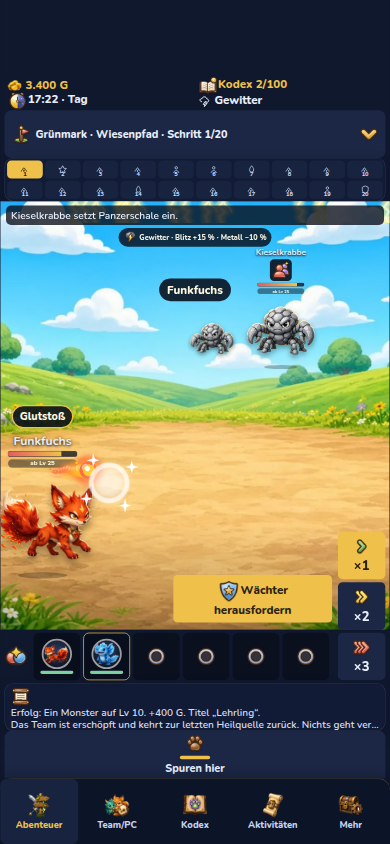
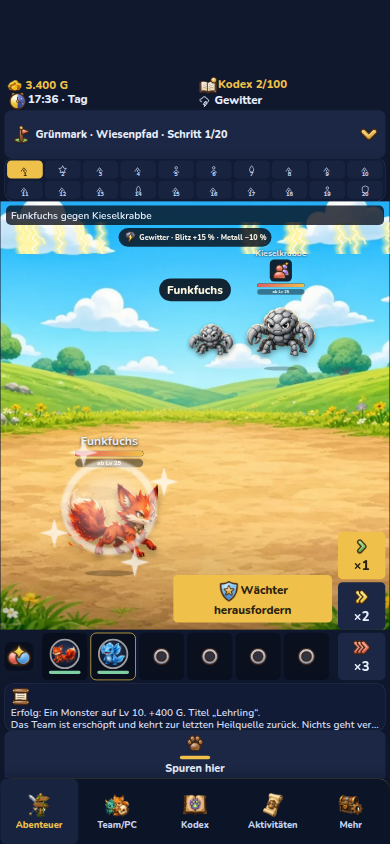
Kampf K8: Aura nach dem Einlauf, Sprite im Feld, Kombi-Tooltip.
Der Blitz startet, wenn das eigene Monster steht, und der erste Angriffsname wartet, bis er vorbei ist. Ausfall und Einlauf bleiben im Feld. Das Kombi-Icon ist groß genug für 24 px auf 360 px Breite und zeigt den Namen bei ×1.

diff --git a/src/adventure/app.ts b/src/adventure/app.ts
@@ -27,7 +27,7 @@ import { activeCombos, AURA_FRAMES, AURA_MS } from './combo'
 import { mechIcon, type MechId } from './mech'
 import { AILMENTS, ailmentIcon, type AilmentId } from './ailment'
 import { sfx } from '../ui'
-import { actorTransform, hitShake, koPose, lungeOffset, numberStyle, parallaxShift } from '../battle/stage'
+import { actorTransform, clampShift, hitShake, koPose, lungeOffset, numberStyle, parallaxShift } from '../battle/stage'
 import { bossUltHitstop, bossUltShake, cameraShake, hitGrade, hitstopMs, numberHoldMs } from '../battle/hitReadout'
 import { beginBattleMood, clearBattleFx, holdBattleFx, mountBattleFx, onBattleFxReady, playBattleFx, preloadBattleStrips, setFxRunning, showBattleConfetti, showBattleDissolve, showHitNumber } from '../battle/phaserFx'
 import { effectTiming, battleStripTypes } from '../battle/strips'
@@ -930,9 +930,14 @@ function play(outcome: EncounterOutcome, speed: Speed, done: () => void): void {
     clearBattleFx()
     finish()
   }
-  backstop = window.setTimeout(finishOnce, dur + 40)
+  const enterMs = 300 / Math.max(1, speed)
+  const auraMs = teamHasCombo() ? AURA_MS / Math.max(1, speed) : 0
+  let auraArmed = false
+  // Hold the fight script until the monster has stepped in and the aura has finished.
+  let scriptAt = auraMs > 0 ? Number.POSITIVE_INFINITY : 0
+  backstop = window.setTimeout(finishOnce, dur + enterMs + auraMs + 400)
   const k = tempoScale(speed)
-  const started = performance.now()
+  let started = performance.now()
   let counterAt = -1
   let frozen = -1
   const seal = document.getElementById('seal') as HTMLImageElement | null
@@ -979,8 +984,9 @@ function play(outcome: EncounterOutcome, speed: Speed, done: () => void): void {
     }
     drawnAt = now
     try {
-      let elapsed = now - started
-      if (frozen >= 0) elapsed = frozen
+      let motion = now - started
+      if (frozen >= 0) motion = frozen
+      const elapsed = frozen >= 0 || !(scriptAt > 0) ? motion : Math.max(0, motion - scriptAt)
       const shot = shotAt(outcome.traces, Math.min(elapsed, battleEnd), battleEnd)
       if (holdCounter && shot?.counter) {
         if (counterAt < 0) counterAt = elapsed
@@ -1047,7 +1053,7 @@ function play(outcome: EncounterOutcome, speed: Speed, done: () => void): void {
       const foeKo = shot?.foeHp === 0 ? Math.min(1, Math.max(0, age) / 200) : 0
       if (shot && shot.allySpecies !== allySeen) {
         allySeen = shot.allySpecies
-        enterAt = elapsed
+        enterAt = motion
         const banner = document.getElementById('name-banner')
         if (banner) {
           banner.hidden = false
@@ -1055,10 +1061,18 @@ function play(outcome: EncounterOutcome, speed: Speed, done: () => void): void {
           window.setTimeout(() => { banner.hidden = true }, 800 / Math.max(1, speed))
         }
       }
-      const enter = enterAt < 0 ? 0 : Math.max(0, 1 - (elapsed - enterAt) / (300 / Math.max(1, speed)))
+      if (!auraArmed && auraMs > 0 && frozen < 0 && enterAt >= 0 && motion >= enterAt + enterMs) {
+        auraArmed = true
+        scriptAt = motion + auraMs + 40
+        showAura(speed)
+      }
+      const enter = enterAt < 0 ? 0 : Math.max(0, 1 - (motion - enterAt) / enterMs)
+      const field = document.getElementById('battle-world')
       if (allyActor) {
-        allyActor.style.transform = `${actorTransform('ally', allyMove, allyHit, allyKo, elapsed, reach)} translate(${(-240 * enter).toFixed(1)}px, 0px)`
+        const slide = clampActorSlide(allyActor, field, -240 * enter)
+        allyActor.style.transform = `${actorTransform('ally', allyMove, allyHit, allyKo, elapsed, reach)} translate(${slide.toFixed(1)}px, 0px)`
         allyActor.style.opacity = String(koPose(allyKo).opacity)
+        clampActorPose(allyActor, field)
       }
       paintWeatherArrow('ally-arrow', shot ? species(shot.allySpecies).type : null, weather)
       paintWeatherArrow('foe-arrow', shot ? species(shot.foeSpecies).type : null, weather)
@@ -1082,6 +1096,7 @@ function play(outcome: EncounterOutcome, speed: Speed, done: () => void): void {
       if (foeActor) {
         foeActor.style.transform = actorTransform('foe', foeMove, foeHit, foeKo, elapsed + 180, reach)
         foeActor.style.opacity = String(koPose(foeKo).opacity)
+        clampActorPose(foeActor, field)
       }
       const world = document.getElementById('battle-world')
       const shakeAge = elapsed - shakeStart
@@ -1120,7 +1135,7 @@ function play(outcome: EncounterOutcome, speed: Speed, done: () => void): void {
     }
   }
   const run = () => {
-    showAura(speed)
+    started = performance.now()
     raf = requestAnimationFrame(frame)
   }
   if (outcome.boss?.species && !holdCounter) showBossIntro(outcome.boss, run)
@@ -1159,13 +1174,20 @@ function paintMark(id: string, mark: string | null, stacks: number): void {
 
 let auraTimer = 0
 
-function showAura(speed: number): void {
-  if (!save) return
-  const types = save.team.flatMap((uid) => {
+function teamTypes(): TypeId[] {
+  if (!save) return []
+  return save.team.flatMap((uid) => {
     const mon = save!.mons[uid]
     return mon ? [species(mon.species).type] : []
   })
-  if (!activeCombos(types).length) return
+}
+
+function teamHasCombo(): boolean {
+  return activeCombos(teamTypes()).length > 0
+}
+
+function showAura(speed: number): void {
+  if (!teamHasCombo()) return
   const node = document.getElementById('aura-flash')
   if (!(node instanceof HTMLElement)) return
   window.clearInterval(auraTimer)
@@ -1181,8 +1203,32 @@ function showAura(speed: number): void {
       node.hidden = true
       return
     }
-    node.style.backgroundPosition = `${-frame * 256}px 0`
+    node.style.backgroundPosition = `${-frame * 420}px 0`
   }, step)
+}
+
+function clampActorSlide(actor: HTMLElement, field: HTMLElement | null, x: number): number {
+  const img = actor.querySelector('img.sprite')
+  const width = field?.clientWidth || 1080
+  const sprite = img instanceof HTMLImageElement ? Math.max(img.offsetWidth, 220) * 1.2 : 280
+  const anchor = (parseFloat(actor.style.left) / 100) * width
+  return clampShift(anchor, x, width, sprite)
+}
+
+function clampActorPose(actor: HTMLElement, field: HTMLElement | null): void {
+  if (!(field instanceof HTMLElement)) return
+  const img = actor.querySelector('img.sprite')
+  if (!(img instanceof HTMLElement)) return
+  const box = img.getBoundingClientRect()
+  if (box.width < 2) return
+  const frame = field.getBoundingClientRect()
+  const pad = 8
+  let dx = 0
+  if (box.left < frame.left + pad) dx = frame.left + pad - box.left
+  else if (box.right > frame.right - pad) dx = frame.right - pad - box.right
+  if (dx === 0) return
+  const scale = fitScale(window.innerWidth, window.innerHeight) || 1
+  actor.style.transform += ` translateX(${(dx / scale).toFixed(1)}px)`
 }
 
 function paintMechs(ids: MechId[]): void {
@@ -1458,6 +1504,14 @@ function onClick(event: Event): void {
   const node = target.closest('[data-act]')
   if (!node) return
   const act = node.getAttribute('data-act')
+  if (act === 'combo') {
+    if (save && save.settings.speed !== 1) return
+    const tip = document.getElementById('combo-tip')
+    if (!(tip instanceof HTMLElement)) return
+    tip.hidden = !tip.hidden
+    tip.textContent = node.getAttribute('data-tip') ?? ''
+    return
+  }
   if (act === 'status') {
     if (save && save.settings.speed !== 1) return
     const who = node.getAttribute('data-who') === 'foe' ? 'foe' : 'ally'

diff --git a/src/adventure/view.ts b/src/adventure/view.ts
@@ -285,13 +285,13 @@ function battle(save: SaveV2, now: number, fighting = false): string {
         <b id="ally-name">${mon ? esc(species(mon.species).name) : ''}<img class="wx-arrow" id="ally-arrow" alt="" ${mon && weatherArrow(weatherForecast(now)[0].weather, species(mon.species).type) ? `src="${art(weatherArrow(weatherForecast(now)[0].weather, species(mon.species).type) === 'up' ? 'battle/stat_up.png' : 'battle/stat_down.png')}"` : 'hidden'}/></b>
         <div class="hp"><span id="ally-hp" style="width:${(hp.hp / hp.max) * 100}%"></span></div>
         <div class="ult ${mon && mon.lvl >= 25 ? '' : 'is-locked'}" id="ally-ult" data-n="0" title="${mon && mon.lvl >= 25 ? 'Ult' : 'ab Level 25'}"></div>
+        <div id="aura-flash" class="aura-flash" hidden></div>
         ${mon ? `<img class="sprite ${mon.shiny ? 'is-shiny' : ''}" id="ally-sprite" src="${monsterArt(mon.species, true)}" alt=""/>` : ''}
         <span class="ground-shadow"></span>
       </div>
       <div id="floats"></div>
       <div class="move-banner" id="move-banner" hidden></div>
       <div class="name-banner" id="name-banner" hidden></div>
-      <div id="aura-flash" class="aura-flash" hidden></div>
       <div class="crit-flash" id="crit-flash"></div>
       <div class="boss-intro" id="boss-intro" hidden></div>
       <button type="button" class="victory" id="victory" hidden></button>
@@ -325,8 +325,9 @@ function teamDock(save: SaveV2): string {
     const mon = save.mons[uid]
     return mon ? [species(mon.species).type] : []
   }))
+  const comboName = combos.map((row) => row.name).join(', ')
   const combo = combos.length
-    ? `<img class="combo-mark" src="${art('battle/combo_synergy_64.png')}" alt="${esc(combos.map((row) => row.name).join(', '))}" title="${esc(combos.map((row) => row.name).join(', '))}"/>`
+    ? `<span class="combo-slot"><button type="button" class="combo-mark" data-act="combo" data-tip="${esc(comboName)}" aria-label="${esc(comboName)}"><img src="${art('battle/combo_synergy_64.png')}" alt=""/></button><p class="combo-tip" id="combo-tip" hidden></p></span>`
     : ''
   const speeds = ([1, 2, 3] as const).map((speed) => {
     const iconId = speed === 1 ? 'speed1' : speed === 2 ? 'speed2' : 'speed3'

diff --git a/src/adventure/adventure.css b/src/adventure/adventure.css
@@ -290,13 +290,25 @@ textarea { width: 100%; box-sizing: border-box; background: #121a30; color: inhe
   box-sizing: border-box;
   z-index: 4;
 }
-.dock.has-combo { grid-template-columns: 72px minmax(0, 1fr) 148px; }
-.combo-mark { width: 64px; height: 64px; align-self: center; object-fit: contain; }
-.aura-flash {
-  position: absolute; z-index: 6; left: 28%; top: 70%; width: 256px; height: 256px;
-  transform: translate(-50%, -70%); pointer-events: none;
-  background-repeat: no-repeat; background-size: 1280px 256px;
+.dock.has-combo { grid-template-columns: 96px minmax(0, 1fr) 148px; }
+.combo-slot { position: relative; align-self: center; }
+.combo-mark {
+  width: 80px; height: 80px; padding: 0; border: 0; border-radius: 18px;
+  background: rgba(8, 12, 24, 0.72); display: grid; place-items: center; cursor: pointer;
 }
+.combo-mark img { width: 72px; height: 72px; object-fit: contain; }
+.combo-tip {
+  position: absolute; z-index: 9; left: 0; bottom: calc(100% + 12px);
+  width: max-content; max-width: 420px; margin: 0; padding: 10px 14px; border-radius: 16px;
+  background: rgba(8, 12, 24, 0.94); color: #fff8e1; font-weight: 800; font-size: 36px; line-height: 1.2;
+}
+.combo-tip[hidden] { display: none; }
+.combatant .aura-flash {
+  position: absolute; z-index: 3; left: 50%; bottom: -36px; width: 420px; height: 420px;
+  margin-left: -210px; pointer-events: none;
+  background-repeat: no-repeat; background-size: 2100px 420px;
+}
+.combatant img.sprite { position: relative; z-index: 2; }
 .team-rail {
   display: grid;
   grid-template-columns: repeat(6, minmax(0, 1fr));

diff --git a/src/battle/stage.test.ts b/src/battle/stage.test.ts
@@ -1,0 +1,16 @@
+import { describe, expect, it } from 'vitest'
+import { clampShift } from './stage'
+
+describe('sprite stays in the field', () => {
+  it('pulls a left-edge lunge and the entrance slide back inside', () => {
+    const field = 1080
+    const sprite = 280
+    const ally = 0.28 * field
+    const foe = 0.72 * field
+    expect(clampShift(ally, -240, field, sprite)).toBeGreaterThan(-240)
+    expect(ally + clampShift(ally, -240, field, sprite)).toBeGreaterThanOrEqual(16 + sprite / 2)
+    expect(clampShift(ally, 360, field, sprite)).toBeCloseTo(360)
+    expect(foe + clampShift(foe, -420, field, sprite)).toBeGreaterThanOrEqual(16 + sprite / 2)
+    expect(foe + clampShift(foe, 80, field, sprite)).toBeLessThanOrEqual(field - 16 - sprite / 2)
+  })
+})

diff --git a/src/battle/stage.ts b/src/battle/stage.ts
@@ -55,6 +55,14 @@ export function numberStyle(band: 'strong' | 'weak' | 'neutral', crit: boolean, 
   return { scale: look.scale, color: look.color, label: look.label }
 }
 
+/** Extra shift that keeps a sprite of `spriteWidth` inside the field. */
+export function clampShift(anchor: number, x: number, fieldWidth: number, spriteWidth: number, margin = 16): number {
+  const half = Math.max(0, spriteWidth) / 2
+  const min = margin + half
+  const max = Math.max(min, fieldWidth - margin - half)
+  return Math.max(min, Math.min(max, anchor + x)) - anchor
+}
+
 export function parallaxShift(attack: number, shake: number): { far: number; mid: number; near: number } {
   const nudge = attack * 0.15 + shake
   return { far: nudge * 0.25, mid: nudge * 0.5, near: nudge }

diff --git a/docs/k8-synergie.md b/docs/k8-synergie.md
@@ -4,6 +4,6 @@ Phase-2-Schritt 15 mit genau 12 Kombis und höchstens 2 aktiven ist im Abenteuer
 
 K8 erkennt deshalb nur. `src/adventure/combo.ts` enthält einen lokalen Stub mit 12 Typ-Paaren. Es gelten höchstens die ersten zwei Treffer in dieser festen Reihenfolge. Es gibt keine neuen Boni auf ATK, HP oder sonstige Werte.
 
-Eine aktive Kombi zeigt `combo_synergy_64.png` neben der Teamleiste. Beim Kampfstart läuft `aura_flash.png` einmal: 5 Bilder à 128 px, 14 fps, 357 ms bei ×1, geteilt durch das Tempo. Der Blitz ist ein Sheet, kein Partikel, und zählt nicht in den Pool von 40. Bei ×3 wird er kürzer. „Effekte reduzieren“ schaltet Partikel und Hitstop aus, den Blitz nicht.
+Eine aktive Kombi zeigt `combo_synergy_64.png` neben der Teamleiste. Das Icon ist 80 px in der Layoutfläche, damit es auf 360 px Breite mindestens 24 px hoch ist. Tippen bei Tempo ×1 öffnet den Namen, zum Beispiel „Glut und Tropfen“. Beim Kampfstart läuft `aura_flash.png` einmal, sobald das eigene Monster eingelaufen ist und bevor der erste Angriffsname erscheint: 5 Bilder à 128 px, 14 fps, 357 ms bei ×1, geteilt durch das Tempo. Der Blitz liegt um das eigene Monster, ist ein Sheet und kein Partikel, und zählt nicht in den Pool von 40. Bei ×3 wird er kürzer. „Effekte reduzieren“ schaltet Partikel und Hitstop aus, den Blitz nicht.
 
 Feuer und Wasser im Team sind „Glut und Tropfen“.
